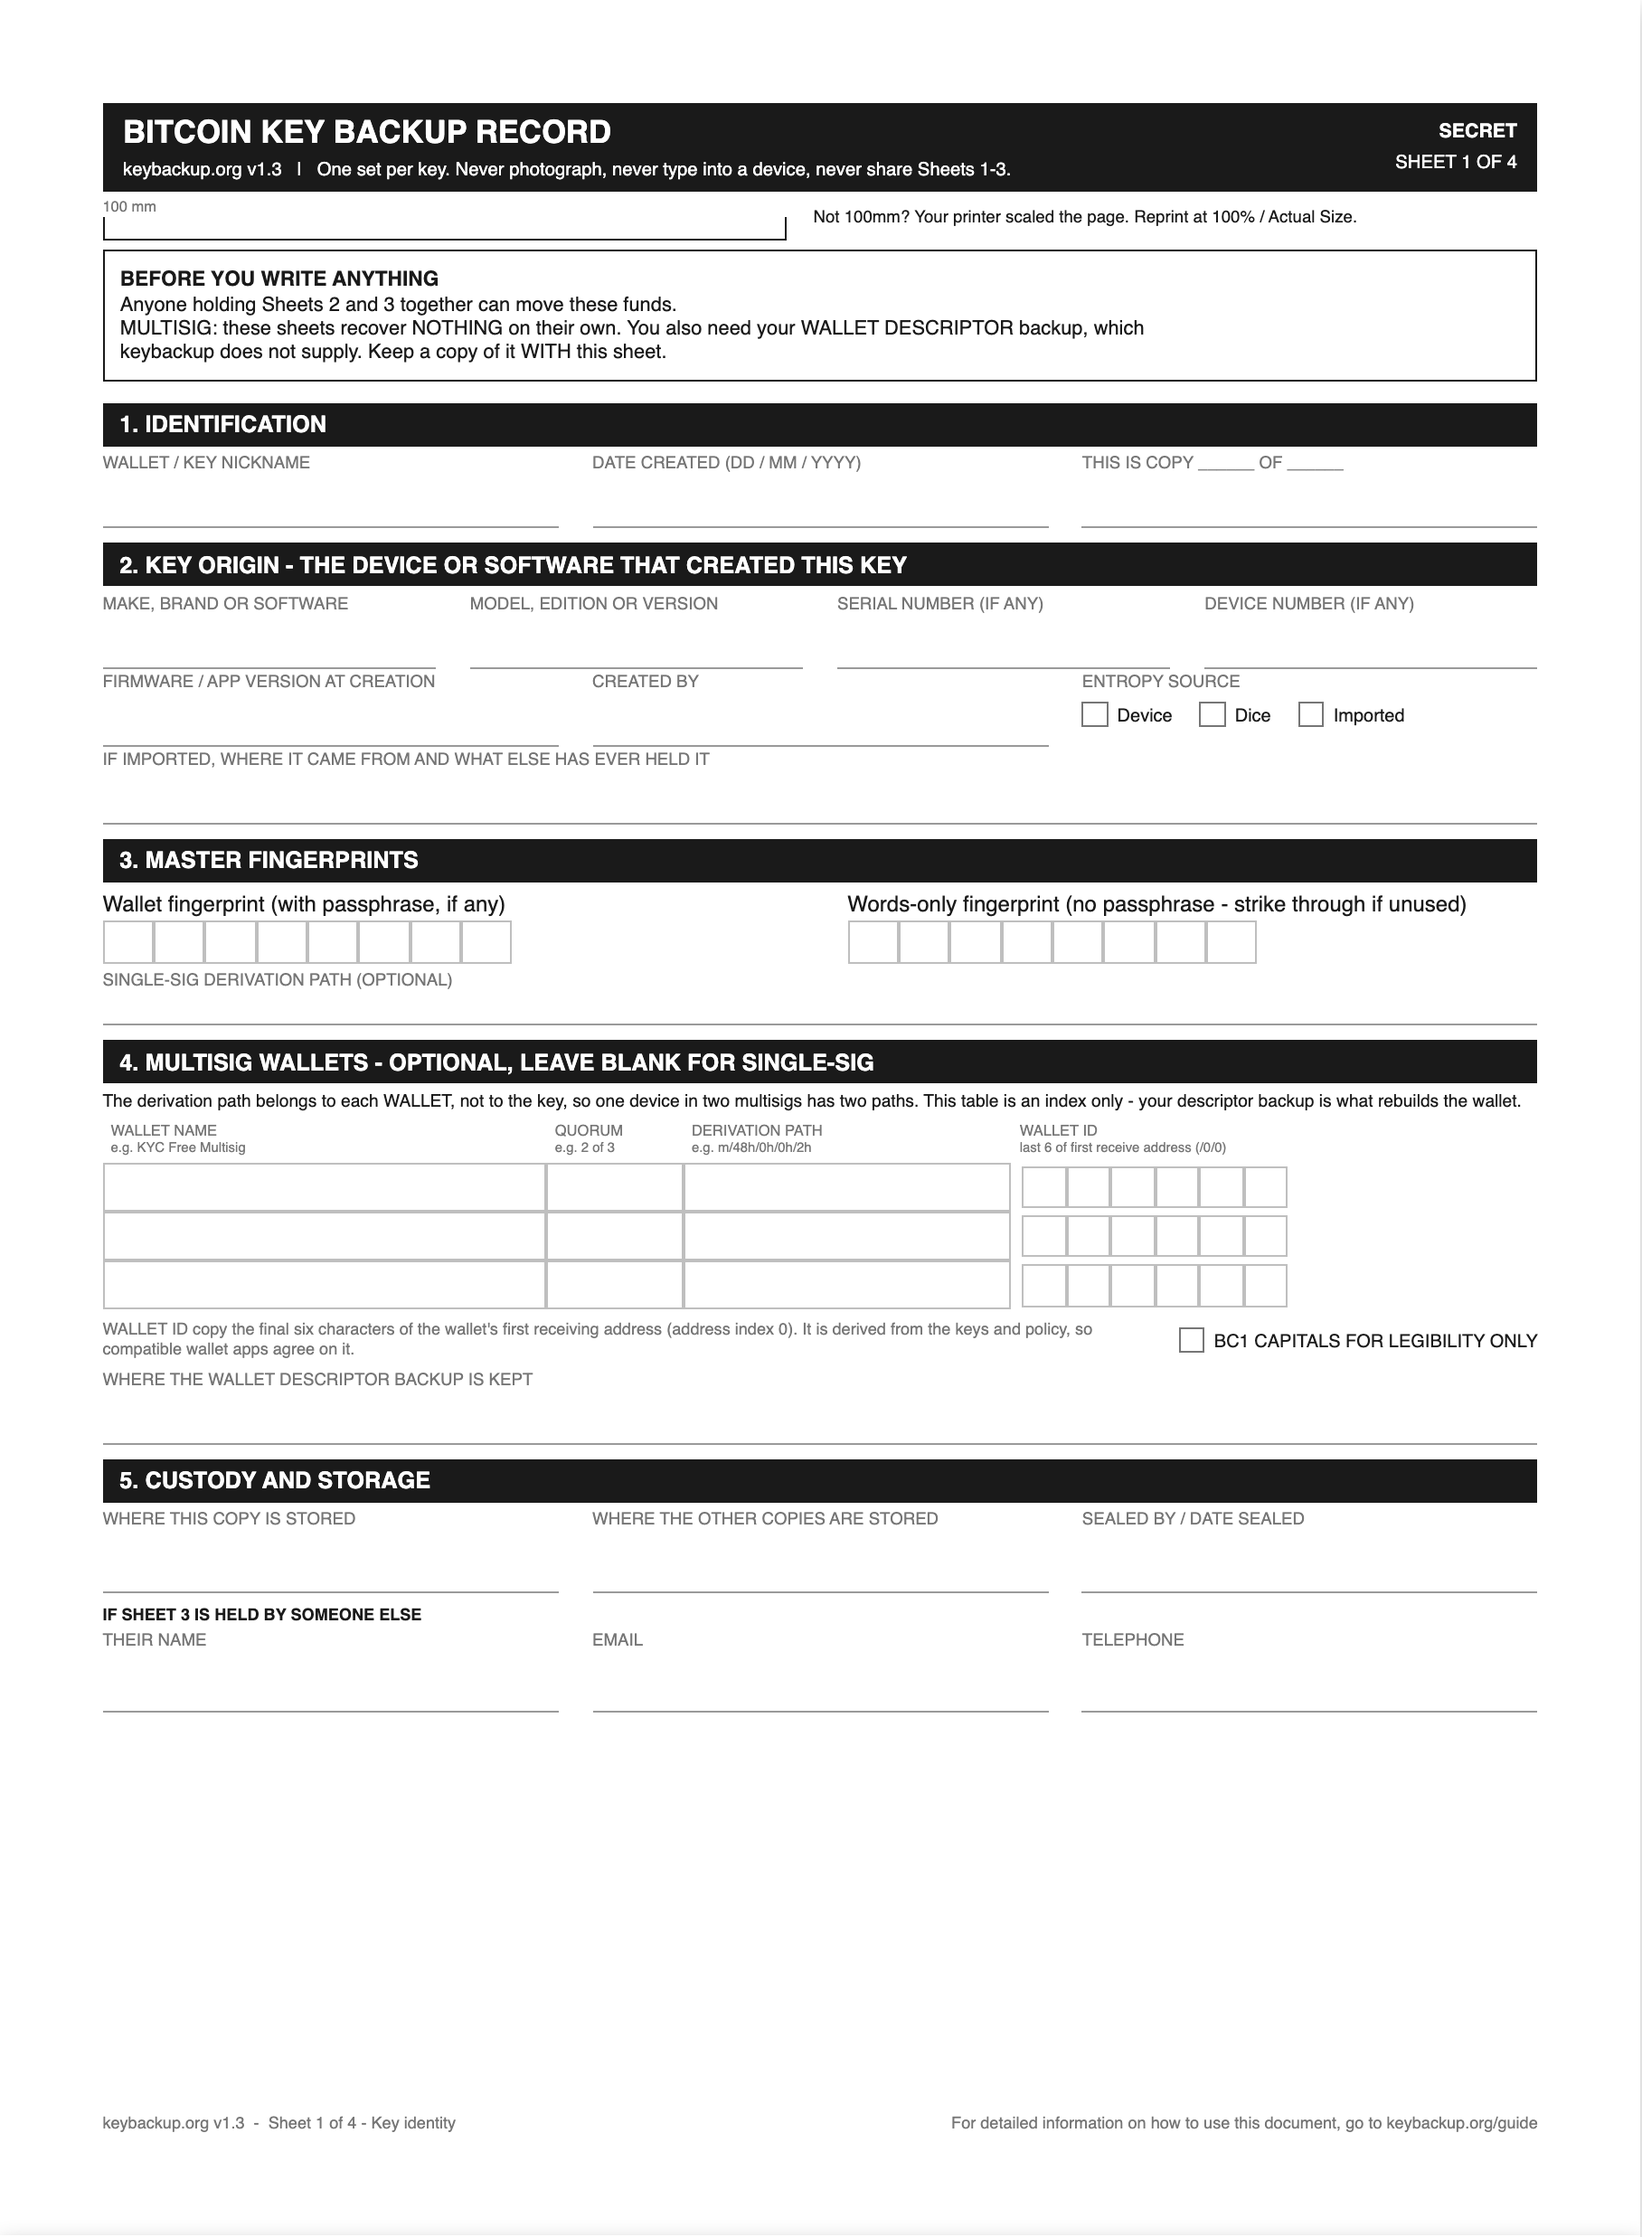
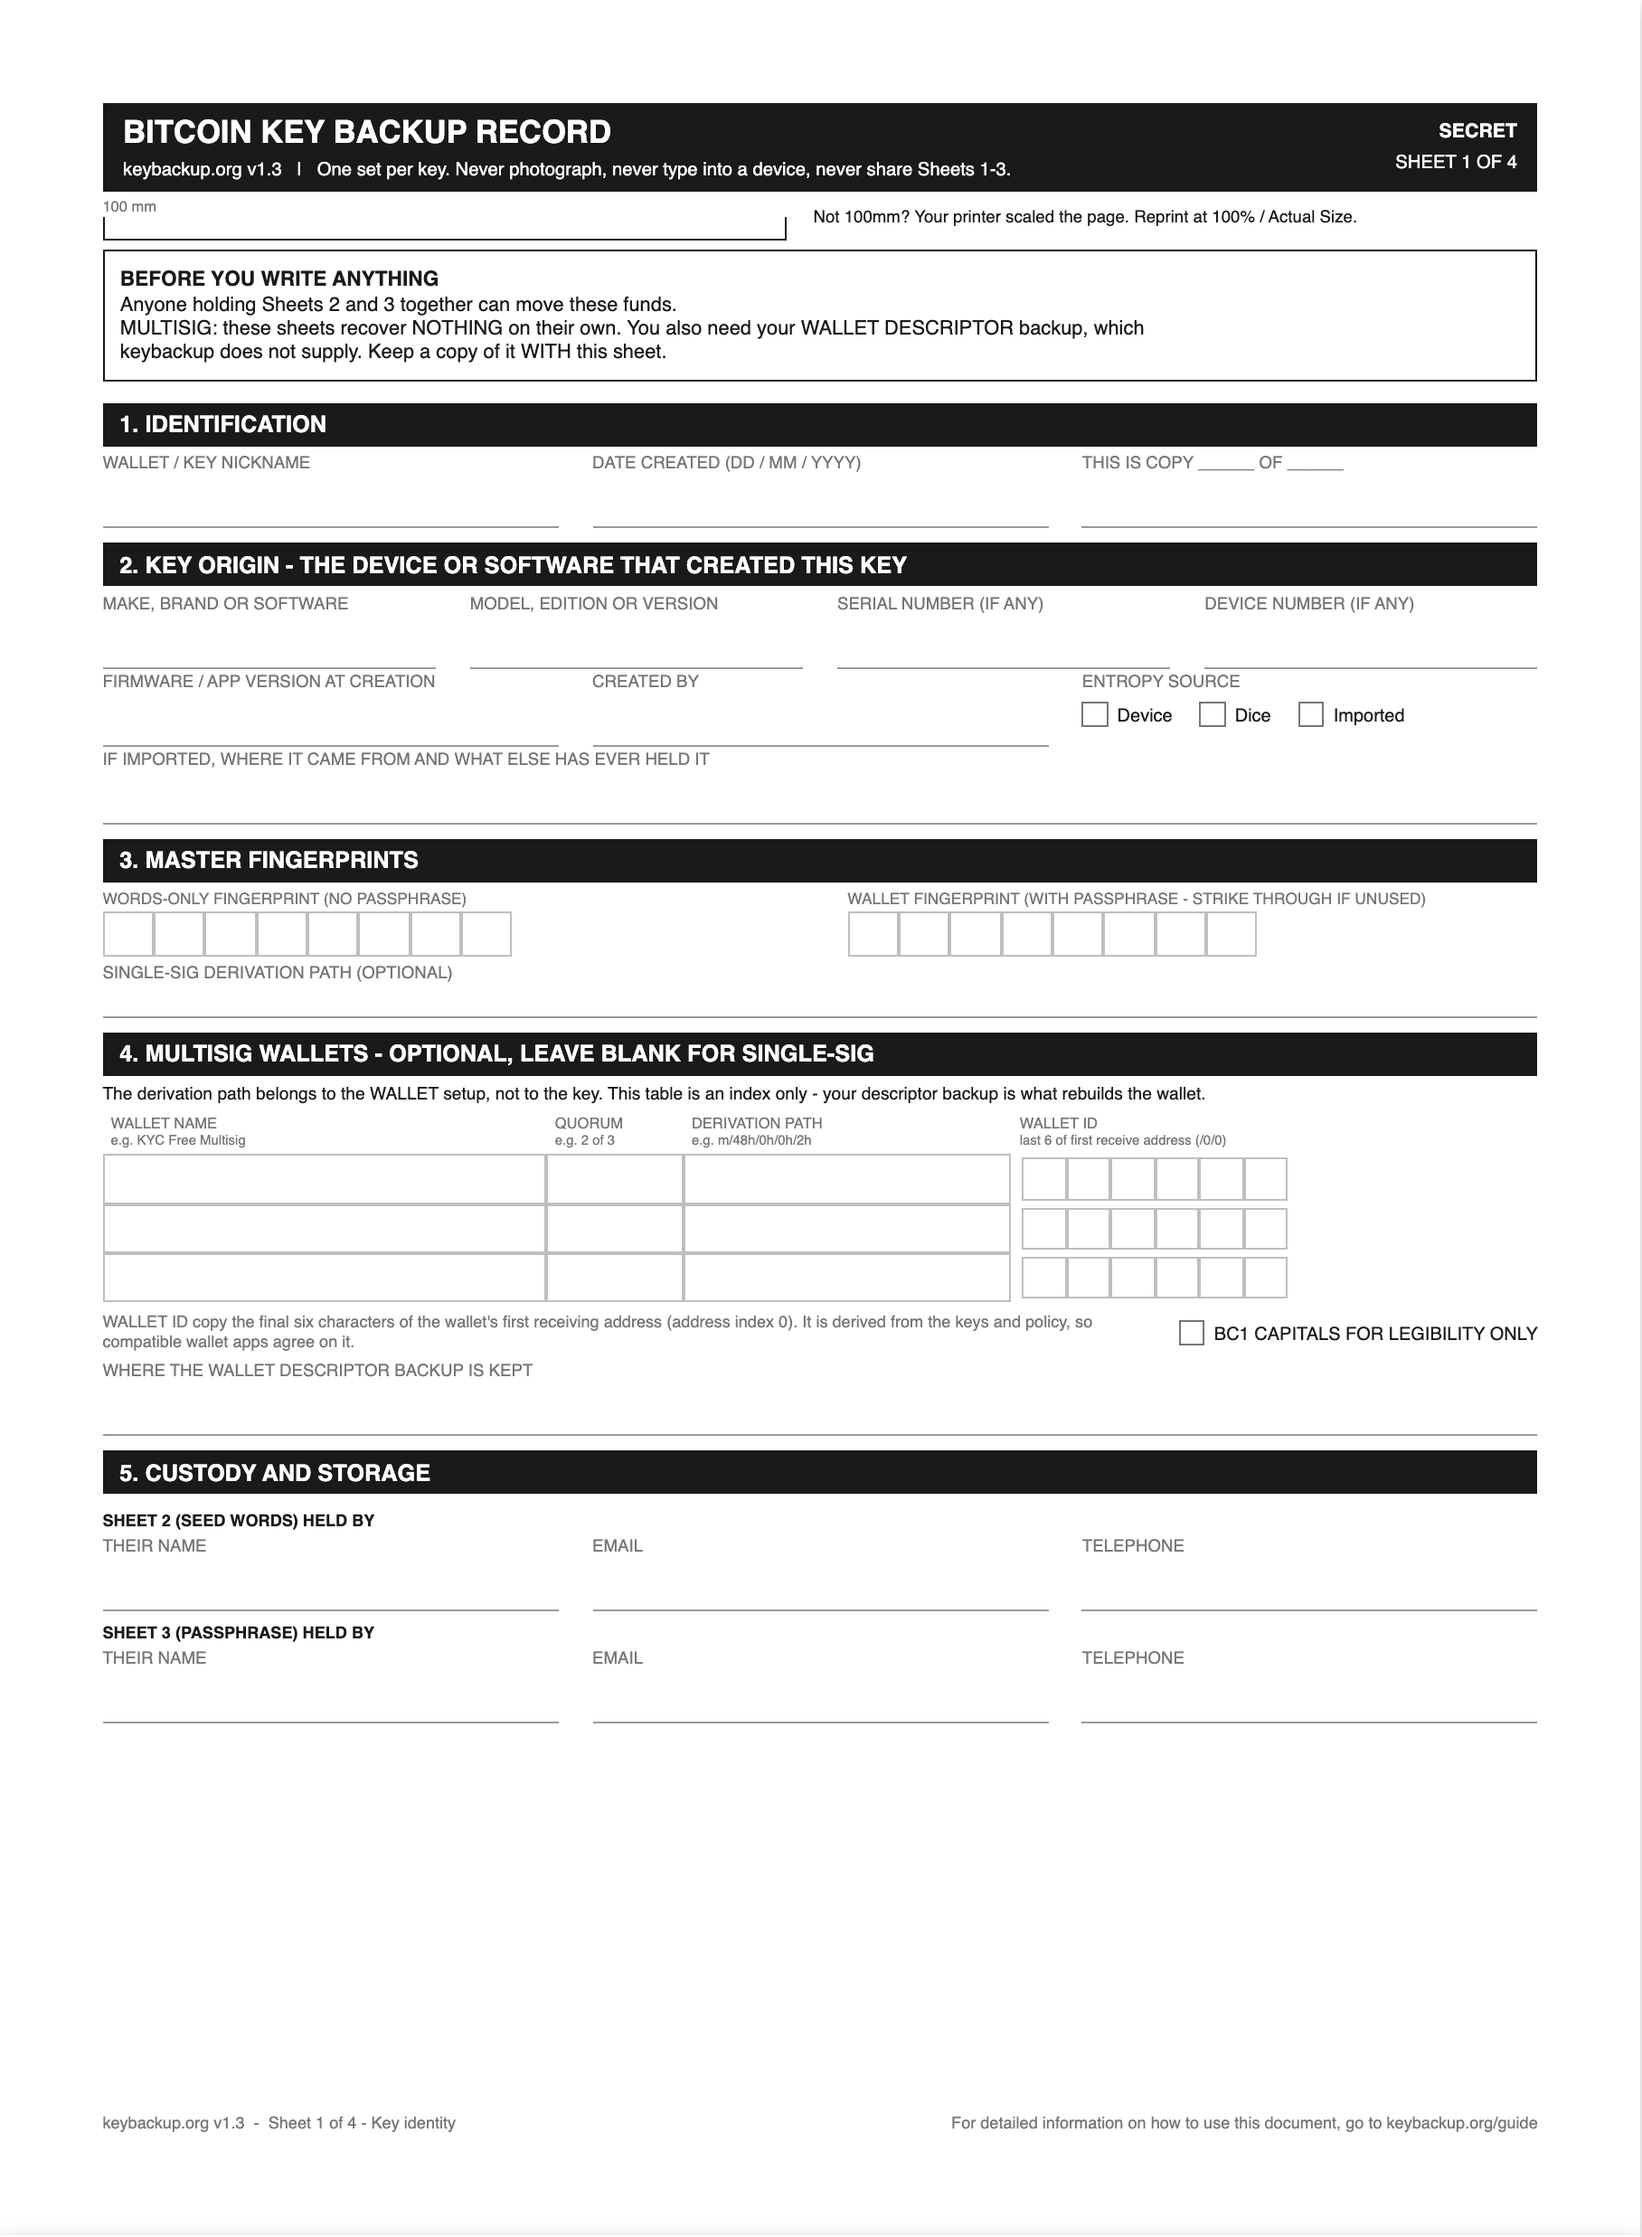
Refine v1.3 fingerprint and custody fields

diff --git a/public/keybackup-v1.3.html b/public/keybackup-v1.3.html
@@ -232,7 +232,7 @@ body.letter .sheet { width: 186mm; }   /* Letter content width: 216 - 30 */
 .fp8 > i { height: 8mm; }
 .fingerprints { display: flex; gap: 8mm; margin-bottom: 1mm; }
 .fpgroup { flex: 1 1 0; }
-.fpgroup .cap { margin-bottom: 0.5mm; }
+.fpgroup .cap { margin-bottom: 0.5mm; color: var(--grey); font-size: 6.5pt; line-height: 1.15; text-transform: uppercase; white-space: nowrap; }
 .fpgroup .boxes { grid-template-columns: repeat(8, 7.5mm); }
 .fpgroup .boxes > i { height: 6.5mm; }
 .single-sig-path .field { min-height: 8mm; }
@@ -407,11 +407,11 @@ body.letter .sheet { width: 186mm; }   /* Letter content width: 216 - 30 */
   <div class="band">3. Master fingerprints</div>
   <div class="fingerprints" id="sheet-1--master-fingerprints">
     <div class="fpgroup">
-      <div class="cap">Wallet fingerprint (with passphrase, if any)</div>
+      <div class="cap">Words-only fingerprint (no passphrase)</div>
       <div class="boxes"><i></i><i></i><i></i><i></i><i></i><i></i><i></i><i></i></div>
     </div>
     <div class="fpgroup">
-      <div class="cap">Words-only fingerprint (no passphrase - strike through if unused)</div>
+      <div class="cap">Wallet fingerprint (with passphrase - strike through if unused)</div>
       <div class="boxes"><i></i><i></i><i></i><i></i><i></i><i></i><i></i><i></i></div>
     </div>
   </div>
@@ -420,7 +420,7 @@ body.letter .sheet { width: 186mm; }   /* Letter content width: 216 - 30 */
   </div>
 
   <div class="band">4. Multisig wallets - optional, leave blank for single-sig</div>
-  <p class="prose s72">The derivation path belongs to each WALLET, not to the key, so one device in two multisigs has two paths. This table is an index only - your descriptor backup is what rebuilds the wallet.</p>
+  <p class="prose s72">The derivation path belongs to the WALLET setup, not to the key. This table is an index only - your descriptor backup is what rebuilds the wallet.</p>
 
   <div class="mstable">
     <div class="mshead">
@@ -453,16 +453,17 @@ body.letter .sheet { width: 186mm; }   /* Letter content width: 216 - 30 */
   </div>
 
   <div class="band">5. Custody and storage</div>
+  <div class="subhead">Sheet 2 (seed words) held by</div>
   <div class="row">
-    <div class="field tall"><div class="cap">Where this copy is stored</div><div class="line"></div></div>
-    <div class="field tall"><div class="cap">Where the other copies are stored</div><div class="line"></div></div>
-    <div class="field tall"><div class="cap">Sealed by / date sealed</div><div class="line"></div></div>
+    <div class="field"><div class="cap">Their name</div><div class="line"></div></div>
+    <div class="field"><div class="cap">Email</div><div class="line"></div></div>
+    <div class="field"><div class="cap">Telephone</div><div class="line"></div></div>
   </div>
-  <div class="subhead">If Sheet 3 is held by someone else</div>
+  <div class="subhead">Sheet 3 (passphrase) held by</div>
   <div class="row">
-    <div class="field tall"><div class="cap">Their name</div><div class="line"></div></div>
-    <div class="field tall"><div class="cap">Email</div><div class="line"></div></div>
-    <div class="field tall"><div class="cap">Telephone</div><div class="line"></div></div>
+    <div class="field"><div class="cap">Their name</div><div class="line"></div></div>
+    <div class="field"><div class="cap">Email</div><div class="line"></div></div>
+    <div class="field"><div class="cap">Telephone</div><div class="line"></div></div>
   </div>
 
   <div class="foot">
@@ -531,10 +532,10 @@ body.letter .sheet { width: 186mm; }   /* Letter content width: 216 - 30 */
 
   <div class="band">Master fingerprints - copy them from Sheet 1</div>
   <div class="fingerprints" id="sheet-2--master-fingerprints" style="margin-bottom:1.2mm">
-    <div class="fpgroup"><div class="cap">Wallet fingerprint (with passphrase, if any)</div><div class="boxes"><i></i><i></i><i></i><i></i><i></i><i></i><i></i><i></i></div></div>
-    <div class="fpgroup"><div class="cap">Words-only fingerprint (no passphrase - strike through if unused)</div><div class="boxes"><i></i><i></i><i></i><i></i><i></i><i></i><i></i><i></i></div></div>
+    <div class="fpgroup"><div class="cap">Words-only fingerprint (no passphrase)</div><div class="boxes"><i></i><i></i><i></i><i></i><i></i><i></i><i></i><i></i></div></div>
+    <div class="fpgroup"><div class="cap">Wallet fingerprint (with passphrase - strike through if unused)</div><div class="boxes"><i></i><i></i><i></i><i></i><i></i><i></i><i></i><i></i></div></div>
   </div>
-  <p class="hint s68">Eight hex characters, 0-9 and a-f only. First check the words-only fingerprint after entering these words with no passphrase. Then apply the passphrase and check the wallet fingerprint. If there is no passphrase, strike through the words-only field and Sheet 3 can be discarded.</p>
+  <p class="hint s68">Eight hex characters, 0-9 and a-f only. First check the words-only fingerprint after entering these words with no passphrase. Then apply the passphrase and check the wallet fingerprint. If there is no passphrase, strike through the wallet fingerprint field and Sheet 3 can be discarded.</p>
 
   <div class="warn s8" style="margin-top:3.5mm">
     <h2>IF YOU ARE RECOVERING AND IT DOES NOT WORK</h2>
@@ -598,8 +599,8 @@ body.letter .sheet { width: 186mm; }   /* Letter content width: 216 - 30 */
 
   <div class="band">Master fingerprints - copy them from Sheet 1</div>
   <div class="fingerprints" id="sheet-3--master-fingerprints" style="margin-bottom:1.2mm">
-    <div class="fpgroup"><div class="cap">Wallet fingerprint (with this passphrase)</div><div class="boxes"><i></i><i></i><i></i><i></i><i></i><i></i><i></i><i></i></div></div>
     <div class="fpgroup"><div class="cap">Words-only fingerprint (no passphrase)</div><div class="boxes"><i></i><i></i><i></i><i></i><i></i><i></i><i></i><i></i></div></div>
+    <div class="fpgroup"><div class="cap">Wallet fingerprint (with this passphrase)</div><div class="boxes"><i></i><i></i><i></i><i></i><i></i><i></i><i></i><i></i></div></div>
   </div>
   <p class="hint s68" style="margin-bottom:var(--sp-block)">Enter the words first: the words-only fingerprint must match. Then apply this passphrase: the wallet fingerprint must match. This keeps the sheets matched up and identifies whether a failed check is in the words or this passphrase.</p>
 

diff --git a/guide/index.html b/guide/index.html
@@ -389,9 +389,10 @@
                     check the words before they try the passphrase.
                   </p>
                   <p>
-                    Without a passphrase, fill in the wallet fingerprint and
-                    strike through the words-only field. The two values would
-                    otherwise be identical.
+                    The words-only fingerprint always applies. Without a
+                    passphrase, it is the wallet fingerprint too, so fill in
+                    the words-only value and strike through the wallet
+                    fingerprint field.
                   </p>
                   <p>
                     Hex uses only <code>0-9</code> and <code>a-f</code>. There
@@ -436,9 +437,8 @@
                   <p>
                     <strong>Multisig table.</strong> Leave it blank for
                     single-signature wallets. The derivation path belongs to
-                    each <em>wallet</em>, not to the key: the same device used
-                    in a single-sig and two multisigs uses three different
-                    paths. Fill in one row per wallet.
+                    the <em>wallet setup</em>, not to the key. Fill in one row
+                    per wallet.
                   </p>
                   <p>
                     Reading a path back: <code>m/48'/0'/0'/2'</code> is a
@@ -531,7 +531,7 @@
                     For a passphrase wallet, first enter the words with no
                     passphrase and check the words-only fingerprint. Then apply
                     the passphrase and check the wallet fingerprint. If there is
-                    no passphrase, strike through the words-only field and Sheet
+                    no passphrase, strike through the wallet fingerprint field and Sheet
                     3 is unused and can be discarded entirely.
                   </p>
                 </div>
@@ -636,9 +636,10 @@
                     be exposed together.
                   </p>
                   <p>
-                    <strong>If you split them</strong>, name the person holding
-                    the seed words, with their email and telephone number. Sheet
-                    1 has the mirror block for whoever holds this sheet.
+                    <strong>Record who holds each sheet.</strong> Sheet 1 has a
+                    contact block for the holder of Sheet 2 (seed words) and
+                    another for the holder of Sheet 3 (passphrase), including
+                    their name, email and telephone number.
                   </p>
                   <p>
                     <strong>If you also keep the passphrase digitally</strong>,
@@ -807,12 +808,12 @@
                   </p>
                   <p>
                     Next, restore the words with no passphrase and compare the
-                    fingerprint against the words-only field. If it is struck
-                    through, there is no passphrase and the wallet fingerprint
-                    is the check you need. If it is filled in, find Sheet 3:
-                    applying its passphrase must produce the wallet fingerprint.
-                    A match at each step is how you know you recovered the right
-                    thing.
+                    fingerprint against the words-only field. If the wallet
+                    fingerprint field is struck through, there is no passphrase
+                    and the words-only value is the check you need. If it is
+                    filled in, find Sheet 3: applying its passphrase must
+                    produce the wallet fingerprint. A match at each step is how
+                    you know you recovered the right thing.
                   </p>
                   <p class="!mb-0">
                     If you need help, ask a Bitcoin professional you have

diff --git a/CHANGELOG.md b/CHANGELOG.md
@@ -39,6 +39,8 @@ they always describe the current document.
   ID: the end of the first receive address at index 0. It identifies the
   same recovered wallet regardless of how an app writes the descriptor.
 - The wallet-name column in the multisig table is wider.
+- Sheet 1 now records contact details for whoever holds Sheet 2 (seed
+  words) and Sheet 3 (passphrase), rather than general storage notes.
 
 ### Removed
 
